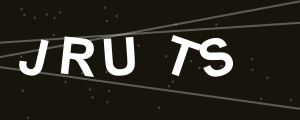
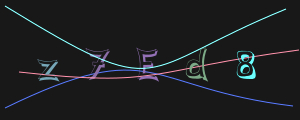
svg-captcha

diff --git a/capcha-img/src/utils/dynamicCaptcha.ts b/capcha-img/src/utils/dynamicCaptcha.ts
@@ -1,5 +1,6 @@
 import sharp from 'sharp';
 import crypto from 'crypto';
+import * as svgCaptcha from 'svg-captcha';
 
 export interface CaptchaResult {
     id: string;
@@ -12,97 +13,56 @@ export class DynamicCaptchaGenerator {
     private width = 300;
     private height = 120;
 
+    /**
+     * Generate a challenge using Path-Based rendering (Server-Independent)
+     */
     async generate(): Promise<CaptchaResult> {
         const id = crypto.randomBytes(16).toString('hex');
-        const isMath = Math.random() > 0.4;
-        let answer = '';
-        let textToShow = '';
 
-        if (isMath) {
-            const a = Math.floor(Math.random() * 40) + 10;
-            const b = Math.floor(Math.random() * 20) + 5;
-            const op = Math.random() > 0.5 ? '+' : '-';
-            answer = (op === '+' ? (a + b) : (a - b)).toString();
-            textToShow = `${a}${op}${b}=`;
-        } else {
-            const chars = '23456789ABCDEFGHJKLMNPQRSTUVWXYZ';
-            for (let i = 0; i < 5; i++) {
-                answer += chars.charAt(Math.floor(Math.random() * chars.length));
-            }
-            textToShow = answer;
-        }
-
-        const svg = this.generateSVG(textToShow);
-        const image = await this.applyPostProcessing(svg);
-
-        // EXTRA SECURITY: If image is suspiciously small (e.g. < 5KB), it means text failed to render
-        if (!image || image.length < 5000) {
-            console.error('❌ CAPTCHA Error: Image rendering returned suspicious empty buffer.');
-            throw new Error('CAPTCHA_GENERATION_FAILED');
-        }
-
-        return { id, answer, image, expiresAt: Date.now() + 5 * 60 * 1000 };
-    }
-
-    private generateSVG(text: string): string {
-        const bgColor = this.getRandomColor(10, 25);
-        const textColor = '#FFFFFF';
-
-        // Bulletproof SVG: No complex transforms on the <text> element itself
-        // Instead, we use simple positioning and basic font fallbacks
-        let svgContent = `<svg width="${this.width}" height="${this.height}" viewBox="0 0 ${this.width} ${this.height}" xmlns="http://www.w3.org/2000/svg">`;
-        svgContent += `<rect width="100%" height="100%" fill="${bgColor}" opacity="1" />`;
-
-        // Background dots
-        for (let i = 0; i < 40; i++) {
-            svgContent += `<circle cx="${Math.random() * this.width}" cy="${Math.random() * this.height}" r="1.2" fill="white" fill-opacity="0.2" />`;
-        }
-
-        const charArray = text.split('');
-        const totalSpacing = this.width - 60;
-        const charStep = totalSpacing / charArray.length;
-
-        charArray.forEach((char, i) => {
-            const x = 30 + (i * charStep) + (Math.random() * 10 - 5);
-            const y = this.height / 2 + 15;
-            const rotate = Math.floor(Math.random() * 40) - 20;
-
-            // Using multiple font fallbacks to handle environment differences
-            svgContent += `
-                <text 
-                    x="${x}" 
-                    y="${y}" 
-                    fill="${textColor}" 
-                    font-size="52" 
-                    font-weight="900" 
-                    font-family="DejaVu Sans, Bitstream Vera Sans, Arial, Helvetica, sans-serif"
-                    transform="rotate(${rotate}, ${x}, ${y})"
-                    text-anchor="middle"
-                >${char}</text>
-            `;
+        // Use svg-captcha to generate the RAW SVG (Text-to-Path)
+        // This ensures text ALWAYS shows up regardless of server fonts
+        const captcha = svgCaptcha.create({
+            size: 5,
+            noise: 3,
+            color: true,
+            background: '#151515',
+            width: this.width,
+            height: this.height,
+            fontSize: 60
         });
 
-        // 3 Interference lines
-        for (let i = 0; i < 3; i++) {
-            svgContent += `<line x1="0" y1="${Math.random() * this.height}" x2="${this.width}" y2="${Math.random() * this.height}" stroke="white" stroke-opacity="0.3" stroke-width="2" />`;
-        }
+        const answer = captcha.data; // The text answer
+        const rawSvg = captcha.data; // The SVG string (Wait, svgCaptcha.create returns {data, text})
 
-        svgContent += '</svg>';
-        return svgContent;
+        // Correction: svg-captcha returns {data: string (svg), text: string (answer)}
+        const finalAnswer = captcha.text;
+        const svgString = captcha.data;
+
+        // Now use Sharp to apply your Premium Styling over the path-based SVG
+        const image = await this.applyPremiumStyling(svgString);
+
+        return {
+            id,
+            answer: finalAnswer,
+            image,
+            expiresAt: Date.now() + 5 * 60 * 1000
+        };
     }
 
-    private async applyPostProcessing(svg: string): Promise<Buffer> {
-        return sharp(Buffer.from(svg))
-            .flatten({ background: '#111111' }) // Ensure a solid background layer
-            .png()
-            .jpeg({ quality: 100 })
+    private async applyPremiumStyling(svgString: string): Promise<Buffer> {
+        // We take the path-based SVG and apply post-processing for a premium look
+        return sharp(Buffer.from(svgString))
+            .ensureAlpha()
+            .modulate({
+                brightness: 1.2,
+                saturation: 1.0
+            })
+            // Force a dark-mode background layer
+            .flatten({ background: '#0a0a0a' })
+            .jpeg({
+                quality: 100,
+                chromaSubsampling: '4:4:4'
+            })
             .toBuffer();
-    }
-
-    private getRandomColor(min: number, max: number): string {
-        const r = Math.floor(Math.random() * (max - min) + min);
-        const g = Math.floor(Math.random() * (max - min) + min);
-        const b = Math.floor(Math.random() * (max - min) + min);
-        return `rgb(${r},${g},${b})`;
     }
 }
